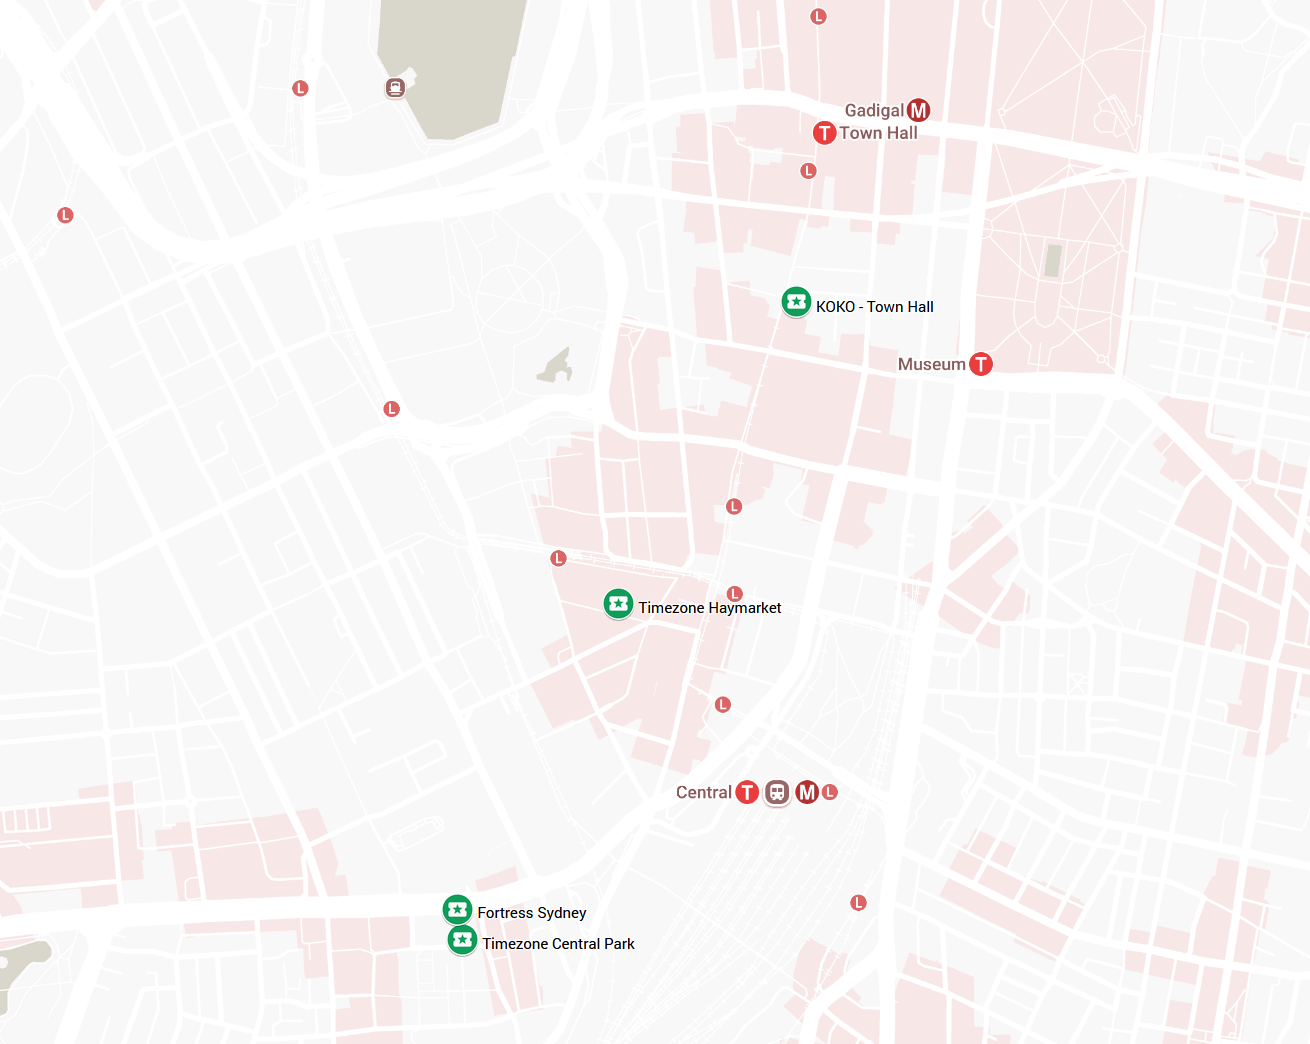
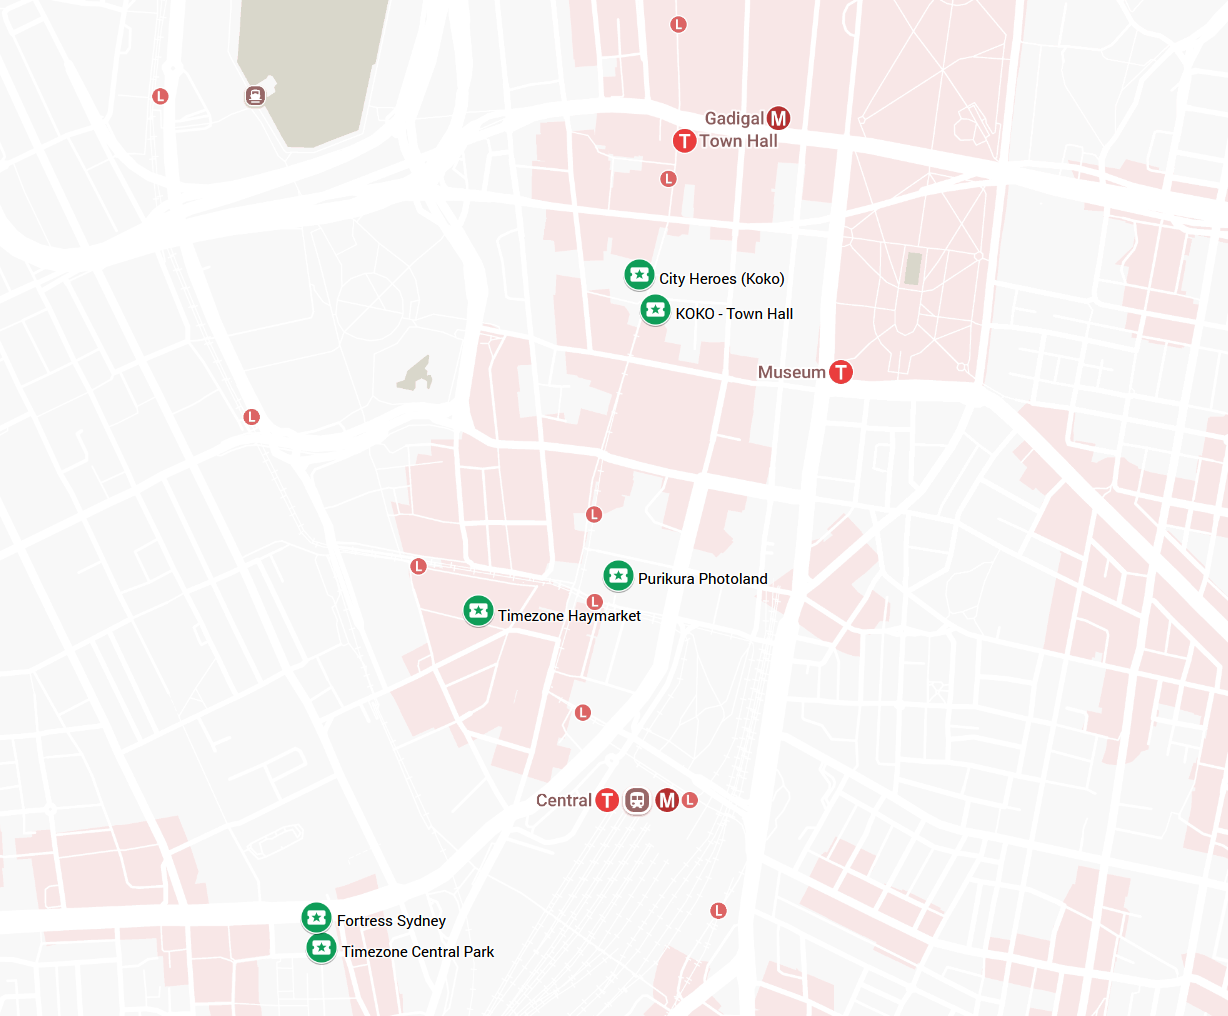
arcades post update!

diff --git a/content/blog/sydney-arcades.md b/content/blog/sydney-arcades.md
@@ -10,14 +10,43 @@ tags: 'Gaming'
 Been wanting to play arcade rhythm games including MaiMai, Chunithm and DDR lately but was wondering where is the best place to play them in Sydney. So over the past week or so I've been visiting all the main arcades and comparing their machines and pricing setups to figure out where the best place is to play!
 
 If you're not interested in all the research and calculations, feel free to [Skip to the conclusions](/blog/sydney-arcades#conclusions-and-key-takeaways)
+
+---
+
+1. [Arcades](/blog/sydney-arcades#arcades)
+2. [Credit Pricing](/blog/sydney-arcades#credit-pricing)
+3. [Game Selection](/blog/sydney-arcades#game-selection)
+4. [Game Pricing](/blog/sydney-arcades#game-pricing)
+	1. [MaiMai](/blog/sydney-arcades#maimai)
+	2. [Chunithm](/blog/sydney-arcades#chunithm)
+	3. [Taiko](/blog/sydney-arcades#taiko)
+	4. [Sound Voltex](/blog/sydney-arcades#sound-voltex)
+	5. [Beatmania IIDX](/blog/sydney-arcades#beatmania-iidx)
+	6. [Dance Dance Revolution](/blog/sydney-arcades#dance-dance-revolution)
+	7. [Pump it Up](/blog/sydney-arcades#pump-it-up)
+	8. [Dancerush](/blog/sydney-arcades#dancerush)
+5. [Other Deals](/blog/sydney-arcades#other-deals)
+6. [Conclusions and key takeaways](/blog/sydney-arcades#conclusions-and-key-takeaways)
+
+#### Update 02/05/2025
+- Added Timezone Game20 Promo
+- Added Purikura Photoland to comparisons, thankyou [Office Lesbian on Bluesky](https://bsky.app/profile/maid.dating)!!
+- Added Machines present at the Koko arcade city heros location - just across the road from their George St venue
+- Added table of contents to quickly navigate the (increasingly unwieldy) page
+- Added indicators for the best price normally, and the best price during promotions
+- Added Pump it up to all sections
+
+---
+
+
 ## Arcades
 I've collected my data from 4 arcades in Sydney:
-- Koko Arcade on George St
+- Koko Arcade on George St (Including the games hidden away across the road at City Heros)
 - Timezone at Haymarket
 - Timezone in Central Park Mall (need to check if its the same)
 - Fortress Arcade in Central Park Mall
-
-![Map showing the locations of arcades in Sydney](/img/blogImages/arcades-map.png)
+- Purikura Photoland at Capitol Square
+![[arcades-map.png]]
 ## Credit Pricing
 Each arcade has their own credit pricing scheme where generally, the more you top up at once, the more bonus credit you get. This is very important for getting the best pricing but requires some planning.
 
@@ -40,7 +69,7 @@ From the numbers, the $200 top-up is the best deal *but* that is alot of money, 
 | $120         | $200 + VIP      | $1.67             |
 
 Across the board these are much weaker deals but that is likely in no small part due to the fat they periodically run the Double Dollars promotion:
-#### Important!!! - Double Dollars
+#### Double Dollars
 It is generally agreed that the best (and ideally only) time you should top-up at Timezone is during double dollars promotions. These run every 1-2 months.
 
 This is exactly what it says on the tin, the amount you top-up + the same amount in bonus credit.:
@@ -49,6 +78,15 @@ This is exactly what it says on the tin, the amount you top-up + the same amount
 | ------------ | --------------- | ----------------- |
 | $60          | $120 + VIP      | $2.00             |
 | $100         | $200 + VIP      | $2.00             |
+#### Game20 Promo
+Sometimes they also run a special promo where you can get $20 off any topup at or over $30. You can also get $200 credit for $80. *Note this can only be redeemed once every time the promo is run*
+
+| Amount spent | Provided Credit | Credit per real $ |
+| ------------ | --------------- | ----------------- |
+| $10          | $30             | $3.00             |
+| $80          | $200            | $2.50             |
+
+I'll be using the 80/200 topup in comparisons because while the 10/30 is a better rate it is difficult to utilize when it can only be redeemed once every time it runs. It is also run much less frequently than Double Dollars
 ### Fortress
 | Amount spent | Provided Credit | Credit per real $ |
 | ------------ | --------------- | ----------------- |
@@ -60,21 +98,26 @@ This is exactly what it says on the tin, the amount you top-up + the same amount
 
 The newest location in Sydney is the Fortress Arcade located across from the Timezone in Central Park Mall.
 
-Overall better than Timezone outside of double dollars, and on-par with Koko when it comes to credit amounts alone, Fortress does not have a VIP system.
+Overall better than Timezone outside of promos, and on-par with Koko when it comes to credit amounts alone, Fortress does not have a VIP system.
+
+Fortress Melbourne appears to have very promising student deals however these cannot currently be applied to the Sydney venue. That said, I spoke to one of the staff about it and they said that they are planning on introducing student deals at some point
+### Purikura Photoland
+Only uses coins for game payment, so no special rules here, $1 spent is $1 credit 
 ## Game Selection
 Before we move onto game pricing, Now is a good time to have a quick look at the selection of games that each arcade offers.
 
 The "Single" or "Double" notation represents the configuration of the machine - whether it is a single machine that stands on its own or a double machine that is physically connected. It is important to note that most double machines will almost always only support 1 player playing alone or two players playing together. ***Not two players playing separately***.
 
-| Game                           | Koko | TZ Haymarket | TZ Central | Fortress |
-| ------------------------------ | ---- | ------------ | ---------- | -------- |
-| MaiMai - Double                | 5    | 2            | 2          | 1        |
-| Chunithm - Single              | 3    | 2            | 1          | 0        |
-| Taiko - Double                 | 4    | 1            | 2          | 1        |
-| Sound Voltex - Single          | 2    | 1            | 1          | 0        |
-| Beatmania IIDX - Double        | 1    | 0            | 0          | 0        |
-| DanceDance Revolution - Double | 2    | 2            | 0          | 1        |
-| Dancerush - Single             | 2    | 1            | 0          | 0        |
+| Game                           | Koko | TZ Haymarket | TZ Central | Fortress | Purikura Photoland |
+| ------------------------------ | ---- | ------------ | ---------- | -------- | ------------------ |
+| MaiMai - Double                | 5+1* | 2            | 2          | 1        | 0                  |
+| Chunithm - Single              | 3    | 2            | 1          | 0        | 0                  |
+| Taiko - Double                 | 5    | 1            | 2          | 1        | 1+1*               |
+| Sound Voltex - Single          | 3    | 1            | 1          | 0        | 5                  |
+| Beatmania IIDX - Double        | 1    | 0            | 0          | 0        | 2                  |
+| DanceDance Revolution - Double | 2+1* | 2            | 0          | 1        | 0                  |
+| Pump It Up - Double            | 1    | 0            | 1          | 0        | 0                  |
+| Dancerush - Single             | 2    | 1            | 0          | 0        | 0                  |
 
 One thing that is apparent from this is that there are by far the most machines at the Koko arcade. This is especially relevant if you want to play the more popular games such as MaiMai, Chunithm and Taiko as you will hopefully be able to find a free machine or at least not have to wait as long.
 
@@ -85,78 +128,118 @@ We've had a look at the top up prices, but those mean little without the context
 - Koko $200
 - Timezone $120
 - Timezone DD (Double Dollars)
+- Timezone Game (Game20 Promo)
 - Fortress $100
+- Purikura Cash 
 
 I will also be using the VIP price since if you did top-up with any of these amounts you should get it (except for fortress which doesn't have a VIP scheme).
 ### MaiMai
-| Option        | Reader Price | Real Cost        |
-| ------------- | ------------ | ---------------- |
-| Koko $100     | $3.20        | $2.00            |
-| Koko $200     | $3.20        | $1.88            |
-| Timezone $120 | $3.30        | $1.98            |
-| Timezone DD   | $3.30        | $1.65            |
-| Fortress $100 | $2.70        | **$1.59** (Best) |
+| Option          | Reader Price | Real Cost               |
+| --------------- | ------------ | ----------------------- |
+| Koko $100       | $3.20        | $2.00                   |
+| Koko $200       | $3.20        | $1.88                   |
+| Timezone $120   | $3.30        | $1.98                   |
+| Timezone DD     | $3.30        | $1.65                   |
+| Timezone Game20 | $3.30        | **$1.32** (Best Promo)  |
+| Fortress $100   | $2.70        | **$1.59** (Best Normal) |
 
 Note on the songs: If you play alone you only get 3 songs, If you play cabinet to cabinet then you get 4.
 
 I did not expect Fortress to win this one, but here we are.
-### Chunithm
+#### Offline Machine at City Heros
+| Option    | Reader Price | Real Cost        |
+| --------- | ------------ | ---------------- |
+| Koko $100 | $2.40        | $1.50            |
+| Koko $200 | $2.40        | **$1.41** (Best) |
 
-| Option        | Reader Price | Real Cost        |
-| ------------- | ------------ | ---------------- |
-| Koko $100     | $2.40        | $1.50            |
-| Koko $200     | $2.40        | $1.41            |
-| Timezone $120 | $2.60        | $1.56            |
-| Timezone DD   | $2.60        | **$1.30** (Best) |
+There is also a MaiMai festival machine located at the Koko Arcade city heros location. This is priced cheaper but as I understand, This cannot be used with save data cards that have played any of the later versions of the game
+### Chunithm
+| Option          | Reader Price | Real Cost               |
+| --------------- | ------------ | ----------------------- |
+| Koko $100       | $2.40        | $1.50                   |
+| Koko $200       | $2.40        | **$1.41** (Best Normal) |
+| Timezone $120   | $2.60        | $1.56                   |
+| Timezone DD     | $2.60        | $1.30                   |
+| Timezone Game20 | $2.60        | **$1.04** (Best Promo)  |
 
 I'm not entirely sure why its cheaper, maybe the fact that they are single machines is a part of it but they still offer the bonus song when playing with someone.
 ### Taiko
-| Option        | Reader Price | Real Cost        |
-| ------------- | ------------ | ---------------- |
-| Koko $100     | $2.40        | $1.50            |
-| Koko $200     | $2.40        | $1.41            |
-| Timezone $120 | $2.80        | $1.68            |
-| Timezone DD   | $2.80        | **$1.40** (Best) |
-| Fortress $100 | $2.69        | $1.58            |
+| Option          | Reader Price | Real Cost               |
+| --------------- | ------------ | ----------------------- |
+| Koko $100       | $2.40        | $1.50                   |
+| Koko $200       | $2.40        | **$1.41** (Best Normal) |
+| Timezone $120   | $2.80        | $1.68                   |
+| Timezone DD     | $2.80        | $1.40                   |
+| Timezone Game20 | $2.80        | **$1.12** (Best Promo)  |
+| Fortress $100   | $2.69        | $1.58                   |
+| Purikura Cash   | $2.00        | $2.00                   |
 
-Timezone DD wins by 1 cent.
+Timezone with promos wins. Otherwise Koko is best outside of special promos
 
-According to [Ausdevs Arcade Guide](https://ausdevs.com/arcades/) you get two songs, but the machine I saw in Fortress listed 1 credit = 3 songs so I'm unsure what happened here, make sure you check!
+At Purikura there is also a very retro (CRT screen and everyhting) Taiko machine that can be played for $2
+
 ### Sound Voltex
-| Option        | Reader Price | Real Cost        |
-| ------------- | ------------ | ---------------- |
-| Koko $100     | $2.60        | $1.63            |
-| Koko $200     | $2.60        | $1.53            |
-| Timezone $120 | $2.40        | $1.44            |
-| Timezone DD   | $2.40        | **$1.20** (Best) |
+| Option          | Reader Price | Real Cost               |
+| --------------- | ------------ | ----------------------- |
+| Koko $100       | $2.60        | $1.63                   |
+| Koko $200       | $2.60        | $1.53                   |
+| Timezone $120   | $2.40        | **$1.44** (Best Normal) |
+| Timezone DD     | $2.40        | $1.20                   |
+| Timezone Game20 | $2.40        | **$0.96** (Best Promo)  |
+| Purikura Cash   | $2.00        | $2.00                   |
 
-Timezone wins this one even outside of DD.
+Timezone wins this one even outside of promos.
 ### Beatmania IIDX
+| Option        | Reader Price | Real Cost              |
+| ------------- | ------------ | ---------------------- |
+| Koko $100     | $3.20        | $2.00                  |
+| Koko $200     | $3.20        | **$1.88** (Best Promo) |
+| Purikura Cash | $2.00        | $2.00                  |
+
+Couldn't find many of this machine, Only 1 at Koko and 2 at Purikura. By value the big Koko top-up wins, but that's a lot to spend.
+### Dance Dance Revolution
+| Option          | Reader Price | Real Cost               |
+| --------------- | ------------ | ----------------------- |
+| Koko $100       | $3.00        | $1.88                   |
+| Koko $200       | $3.00        | $1.76                   |
+| Timezone $120   | $2.60        | **$1.56** (Best Normal) |
+| Timezone DD     | $2.60        | $1.30                   |
+| Timezone Game20 | $2.60        | **$1.04** (Best Promo)  |
+| Fortress $100   | $2.70        | $1.59                   |
+
+A decisive win for Timezone, even without promos.
+
+Make sure you pick premium play (assuming it is also 1 credit for you) unlike standard play it grantees you get to play all 3 songs plus potentially an extra stage depending on your performance (It's a complicated system so I think I'll talk about this and many other beginner DDR tips in another post!). The menu option is listed because in some regions Standard play is a cheaper option but comes at the risk of your game ending early if you perform poorly.
+
+#### Special Machine
+In the Koko City Hero's location there is also a custom DDR machine managed by a community member running Stepmania!
+At the moment it looks like the machine can be a little temperamental so try checking their website if you're having any trouble: https://sil.fyi/chgs-itg/
+
 | Option    | Reader Price | Real Cost        |
 | --------- | ------------ | ---------------- |
-| Koko $100 | $3.20        | $2.00            |
-| Koko $200 | $3.20        | **$1.88** (Best) |
+| Koko $100 | $2.30        | $1.44            |
+| Koko $200 | $2.30        | **$1.35** (Best) |
+### Pump it Up
+| Option          | Reader Price | Real Cost               |
+| --------------- | ------------ | ----------------------- |
+| Koko $100       | $2.80        | $1.75                   |
+| Koko $200       | $2.80        | $1.65                   |
+| Timezone $120   | $2.40        | **$1.44** (Best Normal) |
+| Timezone DD     | $2.40        | $1.20                   |
+| Timezone Game20 | $2.40        | **$0.96** (Best Promo)  |
 
-I could only find this game at Koko Arcade, so I guess it wins by default.
-### Dance Dance Revolution
-| Option        | Reader Price | Real Cost        |
-| ------------- | ------------ | ---------------- |
-| Koko $100     | $3.00        | $1.88            |
-| Koko $200     | $3.00        | $1.76            |
-| Timezone $120 | $2.60        | $1.56            |
-| Timezone DD   | $2.60        | **$1.30** (Best) |
-| Fortress $100 | $2.70        | $1.59            |
+Timezone always wins again
 
-A decisive win for Timezone, even without Double Dollars.
+Played a game of this at the Timezone Central location and found the song selection quite small - only about 50 songs, not sure if I was missing something (since it was the first time I ever played the game), if you need a save data card to access more, or if there just aren't many.
 
-Make sure you pick premium play (assuming it is also 1 credit for you) unlike standard play it grantees you get to play all 3 songs plus potentially an extra stage depending on your performance (sorry! I couldn't find any information on *how* to get the extra stage). The menu option is listed because in some regions Standard play is a cheaper option but comes at the risk of your game ending early if you perform poorly.
 ### Dancerush
-| Option        | Reader Price | Real Cost        |
-| ------------- | ------------ | ---------------- |
-| Koko $100     | $3.30        | $2.06            |
-| Koko $200     | $3.30        | **$1.94** (Best) |
-| Timezone $120 | ???          | ???              |
-| Timezone DD   | ???          | ???              |
+| Option          | Reader Price | Real Cost        |
+| --------------- | ------------ | ---------------- |
+| Koko $100       | $3.30        | $2.06            |
+| Koko $200       | $3.30        | **$1.94** (Best) |
+| Timezone $120   | ???          | ???              |
+| Timezone DD     | ???          | ???              |
+| Timezone Game20 | ???          | ???              |
 
 *(Timezone pricing unknown as the machine in Timezone Haymarket was out of order when I went to check it, will update if I see it working)*
 
@@ -183,11 +266,12 @@ If you're reading this post, then you are probably most interested in the rhythm
 Fortress offer a month membership for $20/month, One of the perks it provides is $15 arcade credit per month this is *not* worth it at all on its own, but if you frequent fortress it may make sense for you.
 ## Conclusions and key takeaways
 With all that said and done, this is the best value way to play each game:
-- **MaiMai** - On price, Fortress simply wins, I too am surprised
-- **Chunithm** - Timezone Double Dollars is the best deal, otherwise its the $200 Koko top-up
-- **Sound Voltex** - Always Timezone, even without DD
-- **Beatmainia IIDX** - Koko Arcade is the only place you can play it
-- **DanceDance Revolution** - Also Always Timezone, even without DD 
+- **MaiMai** - On price, Fortress wins except for when Timezone runs the rare Game20 promotion
+- **Chunithm** - Either Timezone promo is the best deal, otherwise its the $200 Koko top-up
+- **Sound Voltex** - Always Timezone, even without either promo
+- **Beatmainia IIDX** - Koko Arcade is cheaper in the long run, but if you only want to play a few games maybe try Purikura
+- **DanceDance Revolution** - Also Always Timezone, even without either promo 
+- **Pump It Up** - Also Always Timezone, even without either promo
 - **Dancerush** - Currently, the only functional machines I know of are at Koko Arcade
 
 Also worth considering the number of machines. As I mentioned before, Koko has by far the most which might make it easier to get a game? Then again its also very popular which potentially cancels out the benefit.
@@ -201,3 +285,4 @@ Likewise, If you want me to add a game, let me know there too!
 
 ### Final thoughts~
 Hope this helped clear up all the pricing systems that the arcades use, now go out and play some games :3
+
